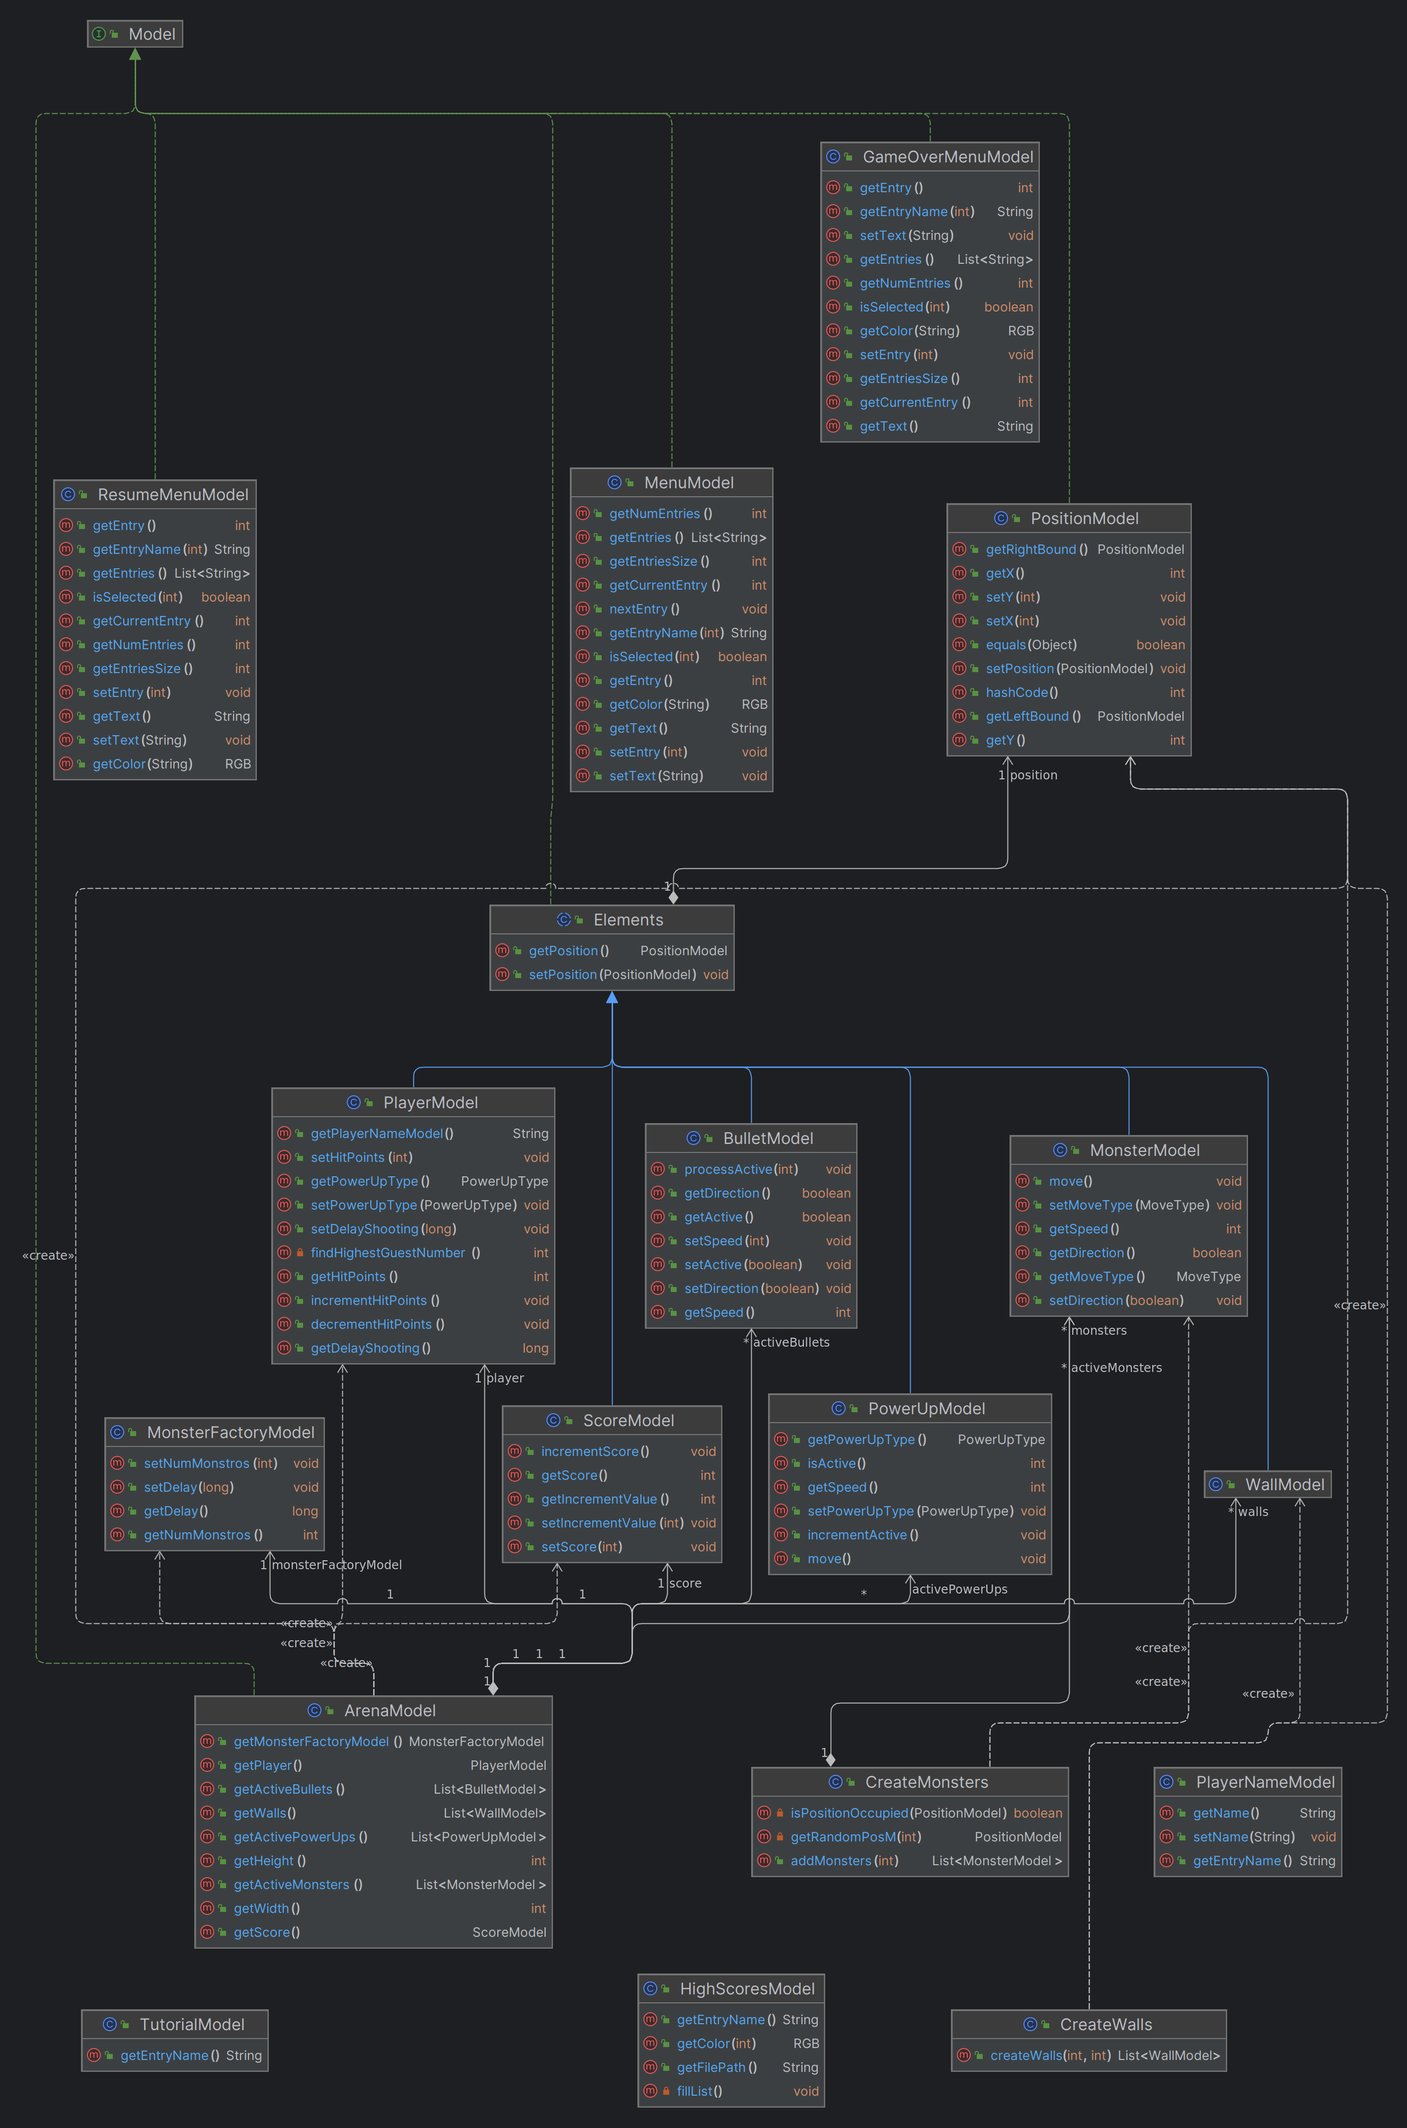
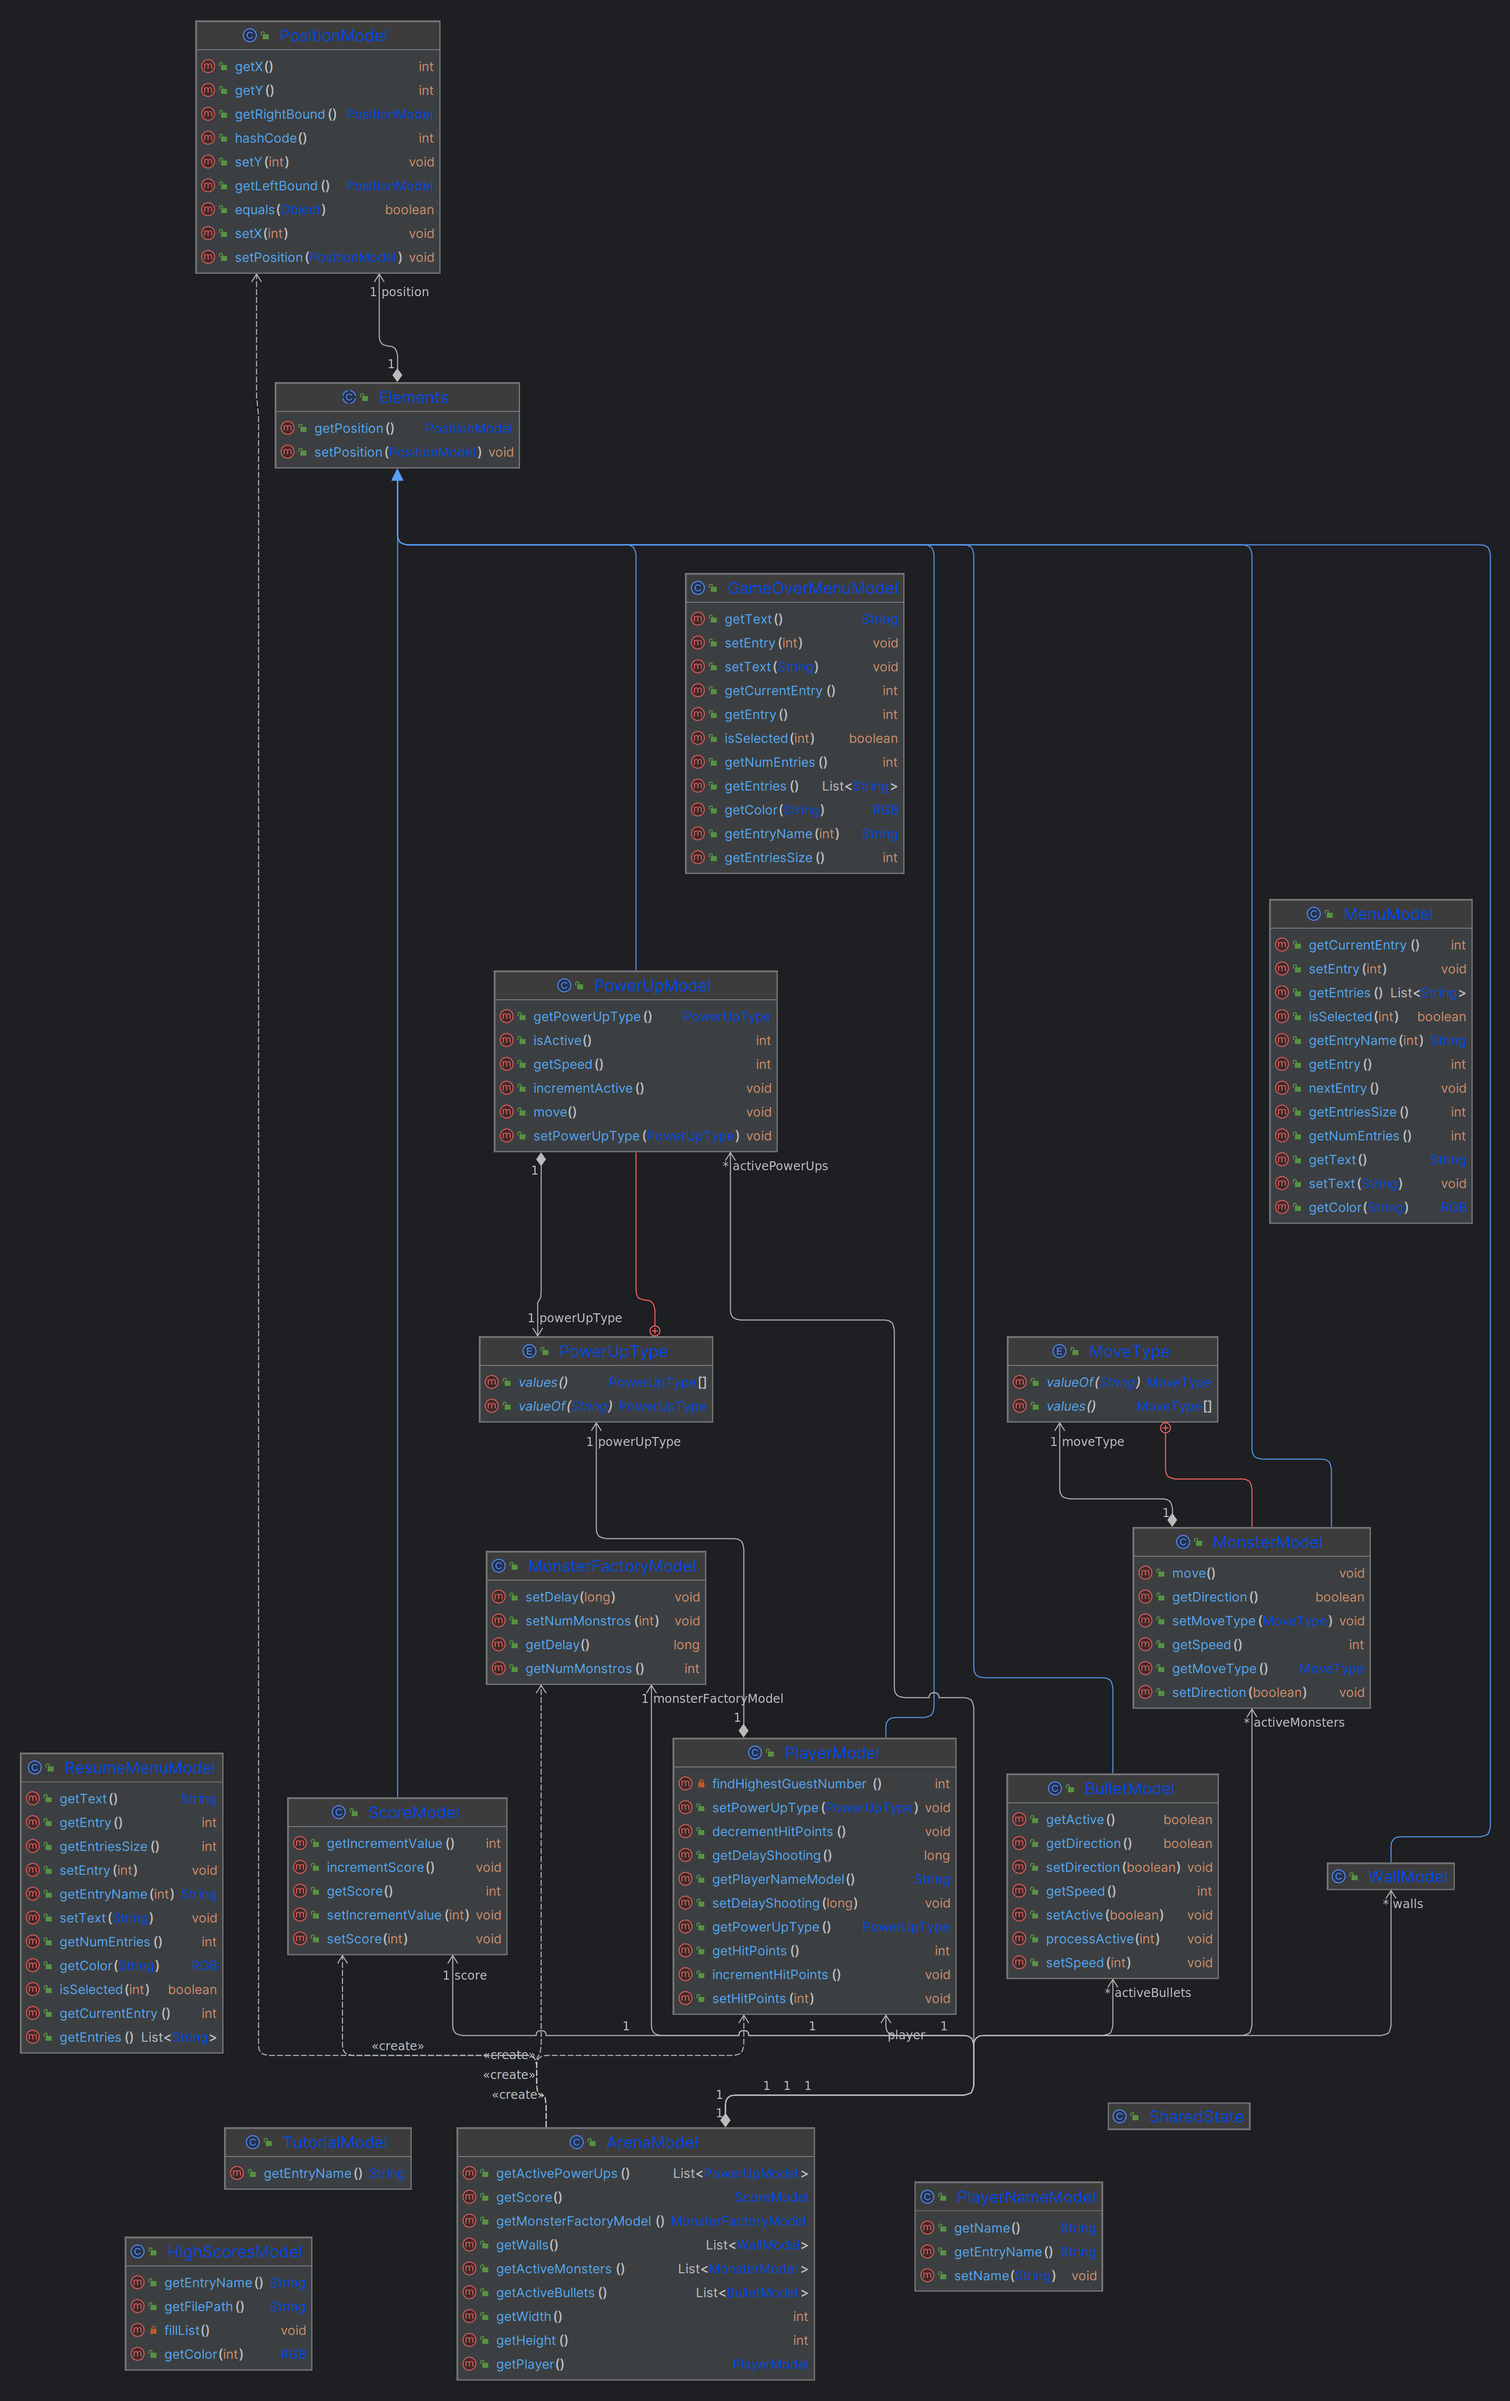
Final Commit

diff --git a/src/main/java/com/Carlos/spaceinvaders/controller/game/PlayerController.java b/src/main/java/com/Carlos/spaceinvaders/controller/game/PlayerController.java
@@ -3,12 +3,10 @@ package com.Carlos.spaceinvaders.controller.game;
 import com.Carlos.spaceinvaders.Game;
 import com.Carlos.spaceinvaders.controller.Controller;
 import com.Carlos.spaceinvaders.controller.SoundController;
-import com.Carlos.spaceinvaders.model.models.ArenaModel;
 import com.Carlos.spaceinvaders.model.models.BulletModel;
 import com.Carlos.spaceinvaders.model.models.PlayerModel;
 import com.Carlos.spaceinvaders.model.models.PositionModel;
 
-import java.awt.*;
 import java.util.List;
 import java.util.Objects;
 

diff --git a/src/main/java/com/Carlos/spaceinvaders/State/MenuState.java b/src/main/java/com/Carlos/spaceinvaders/State/MenuState.java
@@ -1,11 +1,9 @@
 package com.Carlos.spaceinvaders.State;
 
 import com.Carlos.spaceinvaders.Game;
-import com.Carlos.spaceinvaders.controller.game.GameController;
 import com.Carlos.spaceinvaders.controller.menu.MenuController;
 import com.Carlos.spaceinvaders.gui.LanternaGui;
 import com.Carlos.spaceinvaders.model.models.MenuModel;
-import com.Carlos.spaceinvaders.view.game.DrawGame;
 import com.Carlos.spaceinvaders.view.menu.DrawMenu;
 
 import java.io.IOException;

diff --git a/src/main/java/com/Carlos/spaceinvaders/Game.java b/src/main/java/com/Carlos/spaceinvaders/Game.java
@@ -1,9 +1,7 @@
 package com.Carlos.spaceinvaders;
 
-import com.Carlos.spaceinvaders.State.MenuState;
 import com.Carlos.spaceinvaders.State.PlayerNameState;
 import com.Carlos.spaceinvaders.State.State;
-import com.Carlos.spaceinvaders.model.models.MenuModel;
 import com.Carlos.spaceinvaders.model.models.PlayerNameModel;
 import com.Carlos.spaceinvaders.model.models.PositionModel;
 import com.Carlos.spaceinvaders.gui.LanternaGui;

diff --git a/src/main/java/com/Carlos/spaceinvaders/model/models/MenuModel.java b/src/main/java/com/Carlos/spaceinvaders/model/models/MenuModel.java
@@ -6,10 +6,9 @@ import java.util.Arrays;
 import java.util.HashMap;
 import java.util.List;
 import java.util.Map;
-import java.util.Random;
 
 
-public class MenuModel implements Model{
+public class MenuModel {
     static String text =
             "                          _                     _               \n" +
                     "                         (_)                   | |              \n" +

diff --git a/src/main/java/com/Carlos/spaceinvaders/model/models/ResumeMenuModel.java b/src/main/java/com/Carlos/spaceinvaders/model/models/ResumeMenuModel.java
@@ -7,7 +7,7 @@ import java.util.HashMap;
 import java.util.List;
 import java.util.Map;
 
-public class ResumeMenuModel implements Model{
+public class ResumeMenuModel{
     static String text = " ___          ____                      \n" +
             "|_ _|_ __    / ___| __ _ _ __ ___   ___ \n" +
             " | || '_ \\  | |  _ / _` | '_ ` _ \\ / _ \\\n" +

diff --git a/src/main/java/com/Carlos/spaceinvaders/model/models/GameOverMenuModel.java b/src/main/java/com/Carlos/spaceinvaders/model/models/GameOverMenuModel.java
@@ -7,7 +7,7 @@ import java.util.HashMap;
 import java.util.List;
 import java.util.Map;
 
-public class GameOverMenuModel implements Model {
+public class GameOverMenuModel {
     static String text =
             "  ____    _    __  __ _____    _____     _______ ____  \n" +
             " / ___|  / \\  |  \\/  | ____|  / _ \\ \\   / / ____|  _ \\ \n" +

diff --git a/src/main/java/com/Carlos/spaceinvaders/controller/game/MonsterController.java b/src/main/java/com/Carlos/spaceinvaders/controller/game/MonsterController.java
@@ -4,7 +4,7 @@ import com.Carlos.spaceinvaders.Game;
 import com.Carlos.spaceinvaders.controller.Controller;
 import com.Carlos.spaceinvaders.controller.game.MonstersStrategy.MovementStrategy;
 import com.Carlos.spaceinvaders.model.models.MonsterModel;
-import java.util.List;
+
 
 public class MonsterController extends Controller<MonsterModel> {
 

diff --git a/src/main/java/com/Carlos/spaceinvaders/view/menu/DrawPlayerName.java b/src/main/java/com/Carlos/spaceinvaders/view/menu/DrawPlayerName.java
@@ -7,7 +7,6 @@ import com.Carlos.spaceinvaders.model.models.PositionModel;
 import com.Carlos.spaceinvaders.view.Viewer;
 import com.googlecode.lanterna.TextColor;
 
-import java.io.IOException;
 
 public class DrawPlayerName extends Viewer<PlayerNameModel> {
 

diff --git a/src/main/java/com/Carlos/spaceinvaders/model/models/PositionModel.java b/src/main/java/com/Carlos/spaceinvaders/model/models/PositionModel.java
@@ -3,7 +3,7 @@ package com.Carlos.spaceinvaders.model.models;
 
 import java.util.Objects;
 
-public class PositionModel implements Model {
+public class PositionModel {
 
         private int x;
         private int y;

diff --git a/src/main/java/com/Carlos/spaceinvaders/model/models/Elements.java b/src/main/java/com/Carlos/spaceinvaders/model/models/Elements.java
@@ -1,6 +1,6 @@
 package com.Carlos.spaceinvaders.model.models;
 
-public abstract class Elements implements Model{
+public abstract class Elements{
     
     protected PositionModel position;
     

diff --git a/src/main/java/com/Carlos/spaceinvaders/model/models/ArenaModel.java b/src/main/java/com/Carlos/spaceinvaders/model/models/ArenaModel.java
@@ -5,7 +5,7 @@ import java.util.ArrayList;
 import java.util.List;
 
 
-public class ArenaModel implements Model {
+public class ArenaModel {
 
 
     private final int width;
